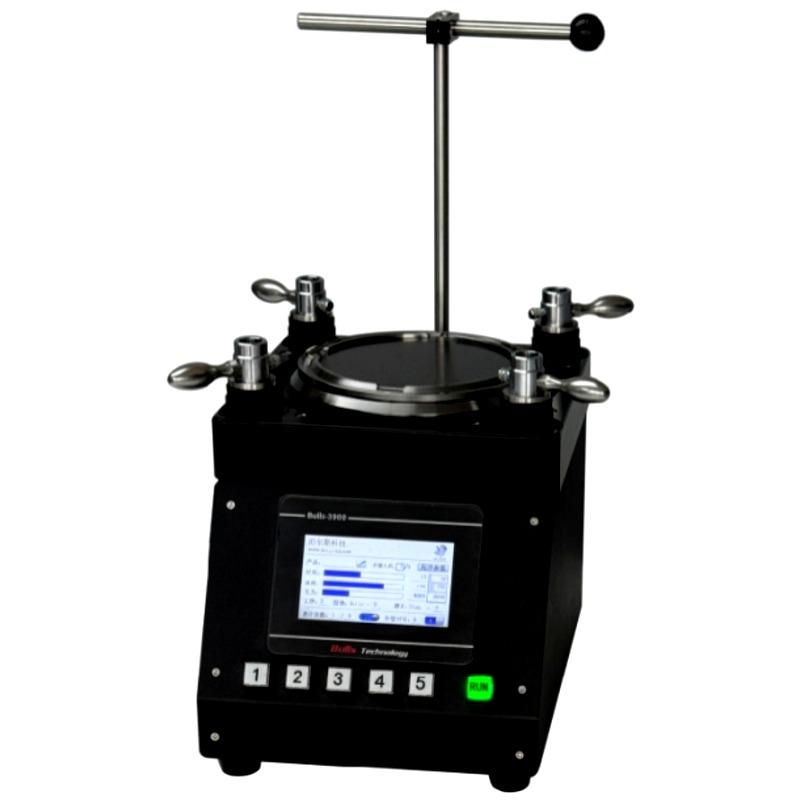
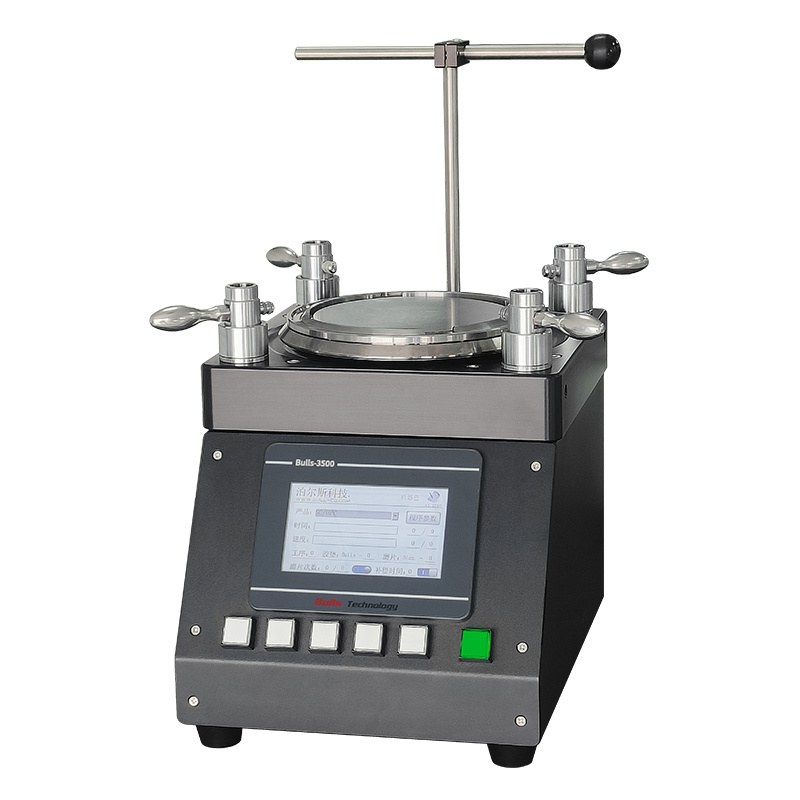
Remove unverified claims, upgrade product photos, add fixture charts
- Strip ISO 9001 / National High-Tech Enterprise / CE / patent claims
  and Fortune 500 mention to eliminate legal risk from unsubstantiated
  certifications. Keeps legitimate company description and geography.
- Remove cert badge row from Trust section (clients strip retained).
- Drop "Patents Granted" hero stat; replace Fortune 500 stat card with
  "Core Product Lines".
- Soften timeline language ("authoritative industry testing" →
  "mass production"; "leading global enterprise" → factual coverage).
- Upgrade 5 product hero photos (PM2000 now 1400×923, 5000A uses
  distinctive rotating polishing head, 3500/LS1000 full machine,
  fixture-round upgraded), all sourced from bull-eq.com official.
- Add "Compatible Fixtures" sections to BULLS-3500 and BULLS-5000A
  product pages with spec charts covering full connector types.

diff --git a/index.html b/index.html
@@ -190,11 +190,6 @@
                     <span class="hero-stat-num" data-count="2000">0</span><span class="hero-stat-plus">+</span>
                     <span class="hero-stat-label">Clients Served</span>
                 </div>
-                <div class="hero-stat-divider"></div>
-                <div class="hero-stat">
-                    <span class="hero-stat-num" data-count="30">0</span><span class="hero-stat-plus">+</span>
-                    <span class="hero-stat-label">Patents Granted</span>
-                </div>
             </div>
         </div>
         <div class="hero-scroll">
@@ -213,9 +208,9 @@
                 <div class="about-content">
                     <div class="about-text">
                         <p class="about-lead">
-                            Founded in 2011, Bulls Precision (Dongguan Bulls Technology Co., Ltd.) is a national
-                            high-tech enterprise integrating R&D, design, manufacturing, and sales — specializing
-                            in fiber optic connector polishing equipment and precision fixtures.
+                            Founded in 2011, Bulls Precision (Dongguan Bulls Technology Co., Ltd.) integrates
+                            R&amp;D, design, manufacturing, and sales under one roof — specializing in fiber
+                            optic connector polishing equipment and precision fixtures.
                         </p>
                         <p>
                             Guided by our core values of "Precision, Innovation, Quality, and Service," we are
@@ -237,11 +232,11 @@
                         </div>
                         <div class="about-feature">
                             <div class="about-feature-icon">
-                                <i class="fas fa-certificate"></i>
+                                <i class="fas fa-cogs"></i>
                             </div>
                             <div>
-                                <h4>Quality Certified</h4>
-                                <p>ISO 9001 and multiple international quality management system certifications</p>
+                                <h4>In-House Manufacturing</h4>
+                                <p>Full-stack R&amp;D, design, and precision machining under one roof in Dongguan</p>
                             </div>
                         </div>
                         <div class="about-feature">
@@ -260,38 +255,33 @@
                         <img src="images/company-reception-hq.jpg" alt="Bulls Precision - Company Reception">
                     </div>
                     <div class="about-float-card card-1">
-                        <i class="fas fa-award"></i>
-                        <span>National High-Tech Enterprise</span>
+                        <i class="fas fa-industry"></i>
+                        <span>Dongguan, China · Est. 2011</span>
                     </div>
                     <div class="about-float-card card-2">
-                        <i class="fas fa-shield-alt"></i>
-                        <span>ISO 9001 Certified</span>
+                        <i class="fas fa-globe-asia"></i>
+                        <span>Exporting to Global Markets</span>
                     </div>
                 </div>
             </div>
         </div>
     </section>
 
-    <!-- Trust Section: Clients & Certifications -->
+    <!-- Trust Section: Clients -->
     <!--
-      TODO(user): Replace placeholder logos/badges with real assets.
-      1. Client logos: drop PNG/SVG files into /images/clients/ and update <img src>.
-         Recommended: ~8 logos, grayscale, ≤120px tall, transparent background.
-         If you can't show brand names (NDA), use "A Fortune 500 Datacenter Operator" style labels instead.
-      2. Certifications: drop real cert images / PDFs into /images/certs/ and update <a href> + <img src>.
-         Each badge should link to a full PDF scan so visitors can verify.
+      TODO(user): Replace placeholder logos with real client logos.
+      Drop PNG/SVG files into /images/clients/ and swap each placeholder div.
+      If NDA prevents brand names, use generic labels like "Global Telecom Operator".
     -->
     <section class="section trust" id="trust">
         <div class="container">
             <div class="section-header">
                 <span class="section-tag">Trusted Worldwide</span>
                 <h2 class="section-title">Chosen by Industry Leaders</h2>
-                <p class="section-subtitle">Our equipment runs on production lines of leading telecom, data center, and defense-grade fiber optic manufacturers across 50+ countries.</p>
+                <p class="section-subtitle">Our equipment runs on production lines of leading telecom, data center, and fiber optic connector manufacturers across global markets.</p>
             </div>
 
-            <!-- Client logo strip -->
             <div class="trust-logos" aria-label="Our clients">
-                <!-- TODO: replace each div with <img src="images/clients/XXX.svg" alt="Client Name"> -->
                 <div class="trust-logo-placeholder">Client Logo 1</div>
                 <div class="trust-logo-placeholder">Client Logo 2</div>
                 <div class="trust-logo-placeholder">Client Logo 3</div>
@@ -300,39 +290,6 @@
                 <div class="trust-logo-placeholder">Client Logo 6</div>
                 <div class="trust-logo-placeholder">Client Logo 7</div>
                 <div class="trust-logo-placeholder">Client Logo 8</div>
-            </div>
-
-            <!-- Certifications -->
-            <div class="trust-certs" aria-label="Certifications">
-                <!-- TODO: link each <a href> to the actual certificate PDF -->
-                <a href="#" class="trust-cert" title="ISO 9001 Quality Management System">
-                    <div class="trust-cert-icon"><i class="fas fa-certificate"></i></div>
-                    <div class="trust-cert-body">
-                        <strong>ISO 9001</strong>
-                        <span>Quality Management</span>
-                    </div>
-                </a>
-                <a href="#" class="trust-cert" title="National High-Tech Enterprise">
-                    <div class="trust-cert-icon"><i class="fas fa-award"></i></div>
-                    <div class="trust-cert-body">
-                        <strong>National High-Tech Enterprise</strong>
-                        <span>Recognized by China MOST</span>
-                    </div>
-                </a>
-                <a href="#" class="trust-cert" title="CE Marking">
-                    <div class="trust-cert-icon"><i class="fas fa-shield-alt"></i></div>
-                    <div class="trust-cert-body">
-                        <strong>CE</strong>
-                        <span>European Conformity</span>
-                    </div>
-                </a>
-                <a href="#" class="trust-cert" title="Patents Granted">
-                    <div class="trust-cert-icon"><i class="fas fa-lightbulb"></i></div>
-                    <div class="trust-cert-body">
-                        <strong>30+ Patents</strong>
-                        <span>Proprietary Technology</span>
-                    </div>
-                </a>
             </div>
         </div>
     </section>
@@ -504,13 +461,13 @@
                     <div class="stat-icon"><i class="fas fa-users"></i></div>
                     <div class="stat-number"><span data-count="2000">0</span>+</div>
                     <div class="stat-label">Clients Worldwide</div>
-                    <div class="stat-desc">Long-term partner to numerous Fortune 500 companies</div>
+                    <div class="stat-desc">Long-term partner to leading fiber optic connector manufacturers</div>
                 </div>
                 <div class="stat-card">
-                    <div class="stat-icon"><i class="fas fa-lightbulb"></i></div>
-                    <div class="stat-number"><span data-count="30">0</span>+</div>
-                    <div class="stat-label">Patents Granted</div>
-                    <div class="stat-desc">Continuous innovation investment, mastering core IP</div>
+                    <div class="stat-icon"><i class="fas fa-cogs"></i></div>
+                    <div class="stat-number"><span data-count="5">0</span></div>
+                    <div class="stat-label">Core Product Lines</div>
+                    <div class="stat-desc">Polishing machines, PM alignment, laser cleavers, fixtures, and consumables</div>
                 </div>
             </div>
             <!-- Timeline -->
@@ -528,7 +485,7 @@
                         <div class="timeline-year">2014</div>
                         <div class="timeline-content">
                             <h4>Technology Breakthrough</h4>
-                            <p>Our independently developed fiber polishing machines passed authoritative industry testing, achieving world-class performance levels.</p>
+                            <p>Our independently developed fiber polishing machines entered mass production, establishing the foundation of our current product line.</p>
                         </div>
                     </div>
                     <div class="timeline-item">
@@ -549,7 +506,7 @@
                         <div class="timeline-year">2024</div>
                         <div class="timeline-content">
                             <h4>Industry Leadership</h4>
-                            <p>Became a leading global enterprise in fiber optic polishing equipment, with products reaching 50+ countries and regions worldwide.</p>
+                            <p>Product portfolio expanded to cover polishing machines, PM alignment, laser cleavers, and a full line of fixtures — now serving fiber optic manufacturers across multiple continents.</p>
                         </div>
                     </div>
                 </div>

diff --git a/products/bulls-3500.html b/products/bulls-3500.html
@@ -223,6 +223,19 @@
         </div>
     </section>
 
+    <!-- Compatible Fixtures -->
+    <section class="section product-fixtures">
+        <div class="container">
+            <div class="section-header">
+                <h2 class="section-title">Compatible Polishing Fixtures</h2>
+                <p class="section-subtitle">Supports the full range of connector types across SC, LC, FC, ST, MU, DIN, E2000, 2.5mm, 1.25mm, CS, MDC, and SN ferrules. Custom fixtures available on request.</p>
+            </div>
+            <div class="fixtures-chart">
+                <img src="../images/bulls-3500-compatible-fixtures.png" alt="BULLS-3500 Compatible Polishing Fixtures — full connector type list" loading="lazy">
+            </div>
+        </div>
+    </section>
+
     <!-- Applications -->
     <section class="section product-applications">
         <div class="container">

diff --git a/products/bulls-5000a.html b/products/bulls-5000a.html
@@ -258,6 +258,19 @@
         </div>
     </section>
 
+    <!-- Compatible Fixtures -->
+    <section class="section product-fixtures">
+        <div class="container">
+            <div class="section-header">
+                <h2 class="section-title">Compatible Fixtures &amp; Accessories</h2>
+                <p class="section-subtitle">Full MT/MPO connector coverage — MT/PC, MT/APC, MINI MT, SN-MT, MTRJ, plus jumpers and SC/LC/FC fixtures. Custom fixtures available on request.</p>
+            </div>
+            <div class="fixtures-chart">
+                <img src="../images/bulls-5000a-compatible-fixtures.png" alt="BULLS-5000A Compatible Fixtures — MT/MPO connector types and accessories" loading="lazy">
+            </div>
+        </div>
+    </section>
+
     <!-- Applications -->
     <section class="section product-applications">
         <div class="container">

diff --git a/css/product-detail.css b/css/product-detail.css
@@ -486,3 +486,22 @@
     color: #DC2626;
     font-size: 1.1rem;
 }
+
+/* --- Compatible Fixtures chart --- */
+.product-fixtures { background: var(--gray-100); }
+
+.fixtures-chart {
+    max-width: 1040px;
+    margin: 0 auto;
+    padding: 24px;
+    background: var(--white);
+    border-radius: 16px;
+    box-shadow: 0 4px 20px rgba(0, 0, 0, 0.06);
+}
+
+.fixtures-chart img {
+    display: block;
+    width: 100%;
+    height: auto;
+    border-radius: 8px;
+}
